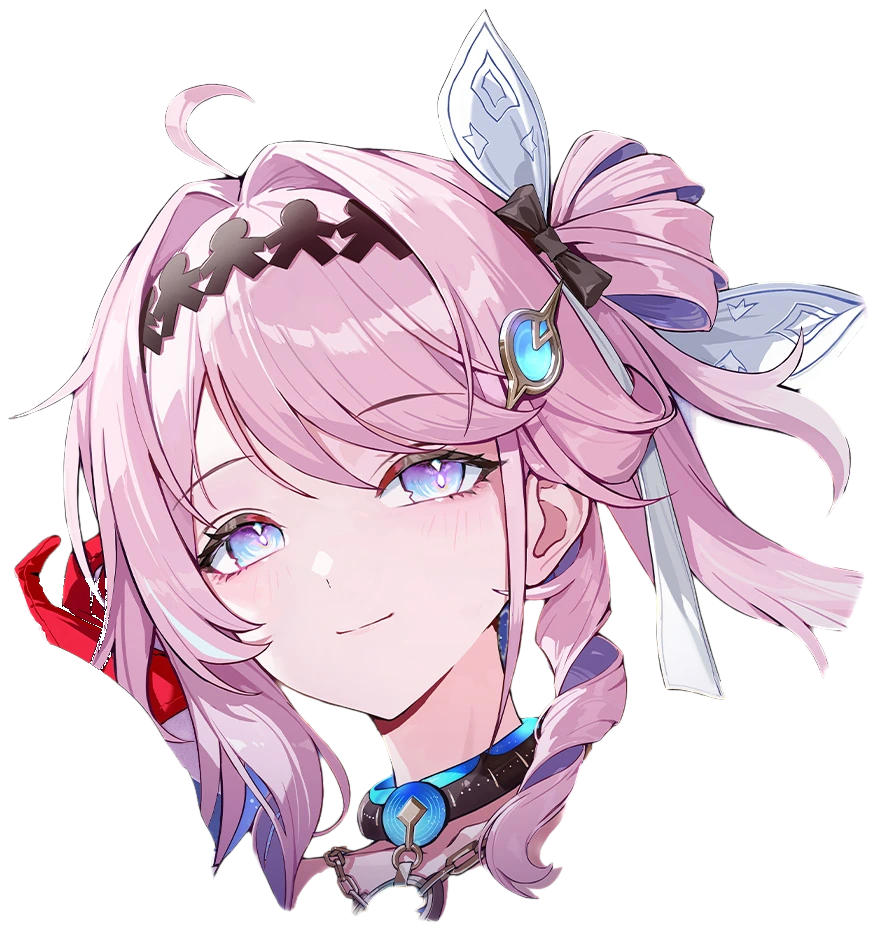
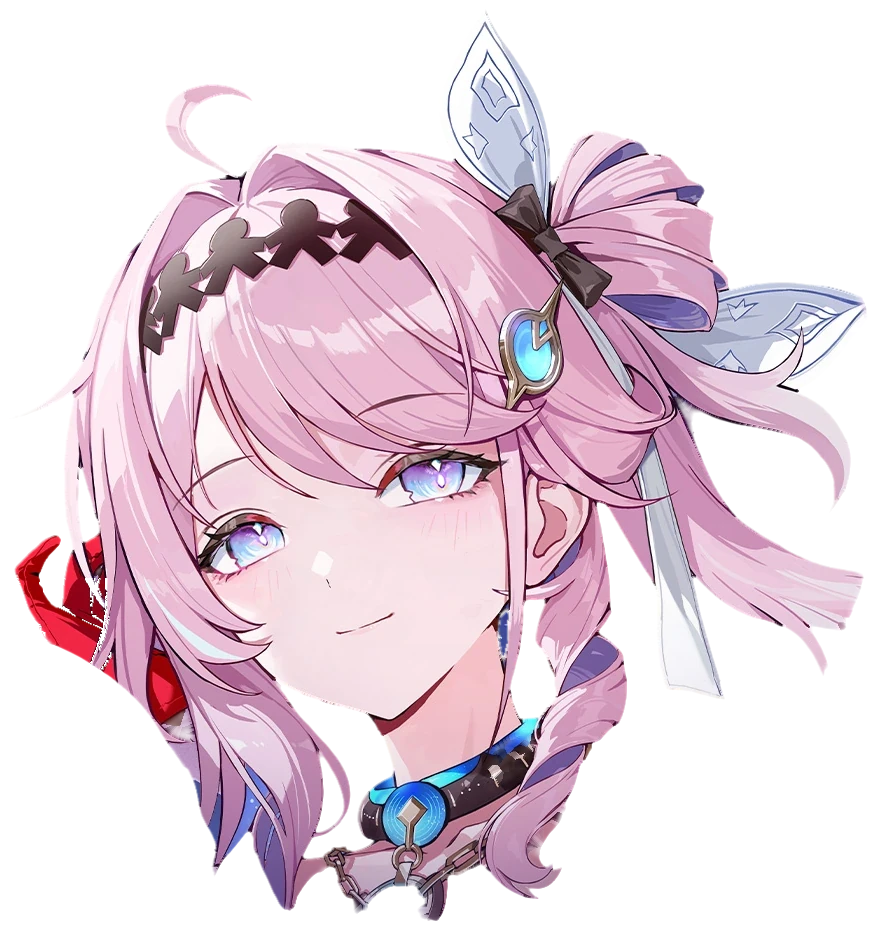
fix(art): 去掉立绘的投影和底板，换成去过边的图
灰边 / 灰方块的原因：.char-art img 上的 drop-shadow 和标题区、侧栏的底部渐隐遮罩写在同一个元素上，
遮罩把阴影也裁成了图片外框大小的矩形——日间是灰紫色方块，夜间是发白的方块。404 的 denia-04
还额外有浅色圆盘底板、细描边和深色投影。图片本身四角都是透明的（爱弥斯 03 底边硬切，按设计贴边放）。

- styles/character-art.css：去掉所有 drop-shadow / box-shadow / 底板 / 描边，立绘直接放在页面背景上
- 404：denia-04 不再放进圆盘，改为底部渐隐（.char-art--fade）
- public/art/characters/*：换成 gamer 去过边的版本（清理半透明边缘残留的旧背景色，原图 + 600 宽，单张 < 200KB），
  SOURCES.md 补记处理方式

diff --git a/styles/character-art.css b/styles/character-art.css
@@ -6,7 +6,9 @@
  *   footer-peek —— 首页：贴着页脚上沿、右侧页面边缘探出来（爱弥斯 03 底边是硬切的，只能这样贴边放）
  */
 .char-art{margin:0;pointer-events:none;user-select:none;-webkit-user-select:none;display:flex;flex-direction:column;align-items:center;gap:6px}
-.char-art img{display:block;max-width:100%;height:auto;-webkit-user-drag:none;filter:drop-shadow(0 14px 26px color-mix(in srgb,var(--primary-strong) 20%,transparent))}
+/* 不加任何投影 / 底板：drop-shadow 和标题区的底部渐隐遮罩叠在一起时，阴影被遮罩裁成图片外框大小的矩形，
+   日间是灰紫色、夜间是发白的方块（用户反馈的「灰边 / 灰方块」）。立绘直接放在页面背景上。 */
+.char-art img{display:block;max-width:100%;height:auto;-webkit-user-drag:none}
 .char-art__credit{font-family:var(--font-body-cjk);font-size:10px;font-weight:400;letter-spacing:.6px;line-height:1.4;white-space:nowrap;color:var(--text-muted);opacity:.85}
 
 /* head：标题区高度内、右侧，文字最宽只到 ~700px，右边留给立绘；>1240px 让开右侧的区块导航 */
@@ -25,7 +27,7 @@
 /* 关于页标题区很高，人像放在两段视频右侧的空白里，限制在 440px 内 */
 .about-head .char-art--head{top:auto;height:min(440px,calc(100% - 40px));bottom:24px}
 
-/* aside：侧栏最后一块，不加卡片底，只留柔和投影；底部渐隐 */
+/* aside：侧栏最后一块，不加卡片底、不加投影；底部渐隐 */
 .char-art--aside{padding-top:4px}
 .char-art--aside img{width:100%;-webkit-mask-image:linear-gradient(180deg,#000 82%,transparent);mask-image:linear-gradient(180deg,#000 82%,transparent)}
 @media (max-width:980px){.char-art--aside{display:none}}
@@ -36,15 +38,12 @@
 @media (max-width:700px){.char-art--inline{width:132px;margin-top:20px}}
 /* round：圆形头像本身边缘完整，不做底部渐隐，尺寸收一点 */
 .char-art--round img{-webkit-mask-image:none;mask-image:none;max-height:210px;margin-top:auto}
-/* badge：denia-04 是从浅色海报上抠的，边缘带一圈浅色半透明残留，深色底上发灰。
-   放进浅色圆盘里（两种主题同一个底），残留和底色融在一起，边缘是实的 */
-.char-art--badge img{aspect-ratio:1;width:100%;object-fit:cover;object-position:50% 18%;border-radius:50%;
-  background:radial-gradient(circle at 50% 38%,#fbf1f7,#ead7ec 70%,#dcc6e4);
-  box-shadow:0 0 0 1px color-mix(in srgb,var(--primary-strong) 30%,transparent),0 14px 30px rgba(16,8,28,.25);filter:none}
+/* fade：denia-04 原图肩部是白色渐隐，底部用遮罩收掉（不加底板、描边、投影） */
+.char-art--fade img{-webkit-mask-image:linear-gradient(180deg,#000 72%,transparent);mask-image:linear-gradient(180deg,#000 72%,transparent)}
 
 /* footer-peek：右边缘贴页面边，底边贴页脚上沿；上、左两条硬边用遮罩渐隐。只在首页、≥1100px 出现 */
 .char-art--footer-peek{position:absolute;right:0;bottom:100%;width:clamp(120px,10vw,150px);align-items:flex-end;gap:0;z-index:1}
-.char-art--footer-peek img{width:100%;filter:none;
+.char-art--footer-peek img{width:100%;
   -webkit-mask-image:linear-gradient(90deg,transparent,#000 22%),linear-gradient(180deg,transparent,#000 16%);-webkit-mask-composite:source-in;
   mask-image:linear-gradient(90deg,transparent,#000 22%),linear-gradient(180deg,transparent,#000 16%);mask-composite:intersect}
 .char-art--footer-peek .char-art__credit{position:absolute;right:calc(100% + 6px);bottom:4px}

diff --git a/app/not-found.tsx b/app/not-found.tsx
@@ -17,7 +17,7 @@ export default function NotFound(){
         <div className="notfound-links">
           {site.nav.map(item=><Link key={item.href} href={item.href}>{item.href==="/"?<><Compass size={15}/>回到首页</>:item.label}<ArrowUpRight size={14}/></Link>)}
         </div>
-        <CharacterArt name="denia-04" variant="inline" className="char-art--start char-art--badge" sizes="(max-width: 700px) 132px, 176px"/>
+        <CharacterArt name="denia-04" variant="inline" className="char-art--start char-art--fade" sizes="(max-width: 700px) 132px, 176px"/>
       </section>
       <BubbleStage posts={posts}/>
     </div>

diff --git a/public/art/characters/SOURCES.md b/public/art/characters/SOURCES.md
@@ -27,3 +27,8 @@
 - 达妮娅睡觉的 Q 版官方图（https://x.com/Wuthering_Waves/status/2059545138553143314 ）：画面里还有其他角色和书本，抠不干净。
 - 达妮娅「Relax. I told you we'd meet again.」壁纸：人物铺满整个画面，没法做成透明立绘。
 - 官网的 `role-small` 小图（366×731）和已交付的立绘是同一张，只是裁切不同，不重复交付。
+
+## 边缘处理（2026-10-09）
+- 10 张图（原图和 `-600` 两种尺寸）都换成了 gamer 去过边的版本，文件来自 `/workspace/omiki-art/out-clean/`，文件名不变，单张都小于 200,000 字节。
+- 处理内容：清理半透明边缘像素上残留的旧背景色（去灰边、去色晕）。只改了透明度和边缘颜色，没有重新生成或补画任何内容，没有用 AI 生成。
+- 页面上原来有一层灰色方框，不是图片本身造成的，而是 CSS 引起的：投影和底部渐隐遮罩叠在一起，被裁成了图片外框大小的矩形；404 页还有一块浅色圆盘底板。这两处都已在 `styles/character-art.css` 去掉。
